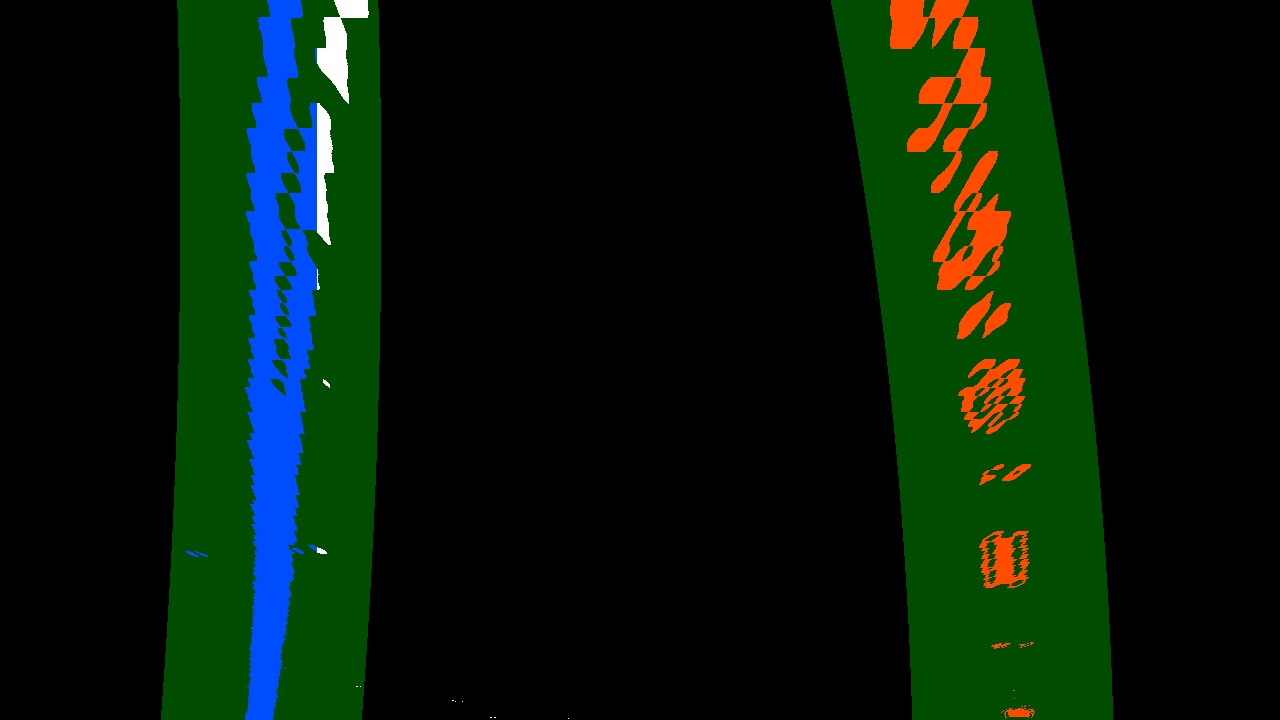
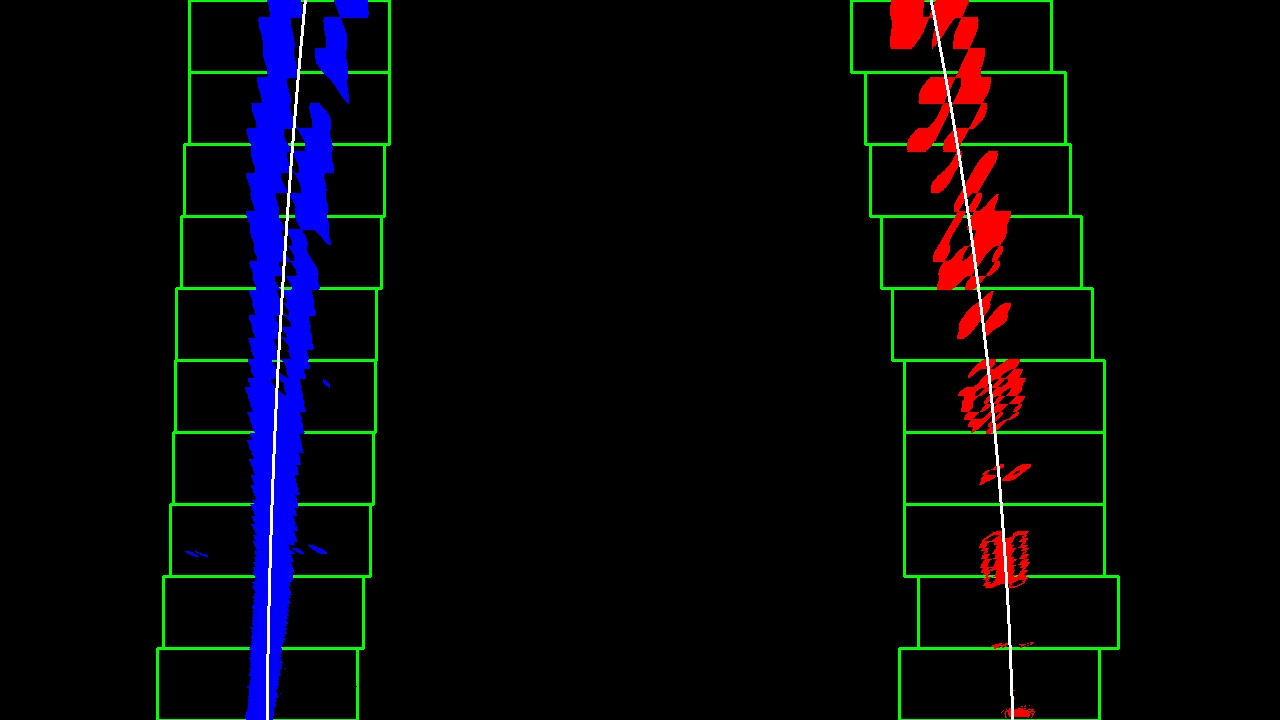
Fix bugs and implement lane center offset calculations. PW

diff --git a/Project 2 - Lane Detection/pipeline.py b/Project 2 - Lane Detection/pipeline.py
@@ -10,6 +10,23 @@ from search_prior import search_around_poly
 from curvature import measure_curvature_real
 from draw_image import draw_image
 from numpy.linalg import inv
+from curvature import lane_center_offset
+import copy
+
+LANE_PIXEL_WIDTH = 1105-217
+LANE_PIXEL_LENGTH = 705 - 440
+YM_PER_PIX = 30/LANE_PIXEL_LENGTH
+XM_PER_PIX = 3.7/LANE_PIXEL_WIDTH
+
+def poly_result(fit, y):
+    """
+    This function evaluates a polynomial of 2nd order
+    :param fit: polyomial coefficients
+    :param y: independent variable
+    :return: dependent variable
+    """
+    x = fit[0] * y ** 2 + fit[1] * y + fit[2]
+    return x
 
 def compare_images(image_1, image_2, gray_1=False, gray_2=False, title_1='Original Image',
                    title_2='Modified Image'):
@@ -65,7 +82,7 @@ def pipeline(write_images, show_images, show_images2, write_images2, show_images
     test_images = "test_images/"
     all_files = os.listdir(test_images)
     image_names = [file for file in all_files if file[-4:] == '.jpg']
-    init = False # init flag decides if box algorithm or search near polynomial is used to find lane lines
+    init = True # init flag decides if box algorithm or search near polynomial is used to find lane lines
     for image in image_names:
         print(test_images + image)
         img = cv2.imread(test_images + image)
@@ -81,9 +98,9 @@ def pipeline(write_images, show_images, show_images2, write_images2, show_images
         if write_images2:
             cv2.imwrite(test_images + "warped/" + image, warped * 255);
         if init:
-            out_img, left_fit, right_fit, ploty, left_fitx, right_fitx = fit_polynomial(warped)
+            out_img, left_fit, right_fit, ploty, left_fitx, right_fitx, lefty, leftx, righty, rightx = fit_polynomial(warped)
             if show_images3:
-                print(out_img)
+                #print(out_img)
                 compare_images(undistorted, out_img, True, True, 'Undistorted Image', 'Annotated Image')
             if write_images3:
                 cv2.imwrite(test_images + "fitted/" + image, out_img);
@@ -95,9 +112,18 @@ def pipeline(write_images, show_images, show_images2, write_images2, show_images
                 compare_images(undistorted, out_img, True, True, 'Undistorted Image', 'Annotated Image')
             if write_images3:
                 cv2.imwrite(test_images + "fitted/" + image, out_img);
-        left_curv, right_curv, left_fit_cr, right_fit_cr = measure_curvature_real(warped, left_fit, right_fit)
+        left_curv, right_curv, left_fit_cr, right_fit_cr = measure_curvature_real(warped, copy.copy(left_fit), copy.copy(right_fit))
+        #print("Left Fit: {}".format(left_fit))
+        #print("Right Fit: {}".format(right_fit))
+
         print("Left curvature: {}".format(left_curv))
         print("Right curvature: {}".format(right_curv))
+        right_base = poly_result(right_fit, 720) * XM_PER_PIX
+        left_base = poly_result(left_fit, 720) * XM_PER_PIX
+        print("Left Base: {}".format(left_base))
+        print("Right Base: {}".format(right_base))
+        offset = lane_center_offset(left_base, right_base)
+        print("Lane Center Offset: {}".format(offset))
         # Checking that they have similar curvature
         # Checking that they are separated by approximately the right distance horizontally
         # Checking that they are roughly parallel ???????
@@ -113,4 +139,4 @@ def pipeline(write_images, show_images, show_images2, write_images2, show_images
 
 if __name__ == '__main__':
     pipeline(write_images=False, write_images2=False, write_images3=False, show_images=False, show_images2=False,
-             show_images3=True, show_images4= False, write_images4= True)
+             show_images3=True, show_images4= True, write_images4= False)

diff --git a/Project 2 - Lane Detection/search_prior.py b/Project 2 - Lane Detection/search_prior.py
@@ -28,6 +28,7 @@ def poly_result(fit, y):
 
 def search_around_poly(binary_warped, left_fit, right_fit):
     margin = 100
+    #print("Enter search around poly")
 
     # Find non-zero items in binary warped image
     nonzero = binary_warped.nonzero()
@@ -81,10 +82,10 @@ def search_around_poly(binary_warped, left_fit, right_fit):
     # Use found points to calculate new polynomials
     left_fit = np.polyfit(x=lefty, y=leftx, deg=2)
     right_fit = np.polyfit(x=righty, y=rightx, deg=2)
-    print(left_fit)
-    print(right_fit)
+    #print(left_fit)
+    #print(right_fit)
     try:
-        left_fitx, right_fitx, ploty, new_left_fit, new_right_fit = fit_poly(binary_warped.shape, leftx, lefty, rightx, righty, left_fit, right_fit)
+        left_fitx, right_fitx, ploty, new_left_fit, new_right_fit = fit_poly(binary_warped.shape, left_fit, right_fit)
     except TypeError:
         return None, None, None, None, None, None, None, None, None, None
     return out_img, left_fit, right_fit, ploty, left_fitx, right_fitx, lefty, leftx, righty, rightx

diff --git a/Project 2 - Lane Detection/main.py b/Project 2 - Lane Detection/main.py
@@ -6,6 +6,7 @@ from perspective_transform import perspective_transform
 from locate_lines import fit_polynomial
 from search_prior import search_around_poly
 from curvature import measure_curvature_real
+from curvature import lane_center_offset
 from draw_image import draw_image
 from numpy.linalg import inv
 from moviepy.editor import VideoFileClip
@@ -102,6 +103,10 @@ def process_image(img):
                          ally = None, current_fit = left_fit, fitx = left_fitx)
         right_line.update(detected=True, radius_of_curvature=right_curv, allx=None,
                          ally=None, current_fit=right_fit, fitx = right_fitx)
+        print("Curvature of left lane line: {}".format(left_curv))
+        print("Curvature of right lane line: {}".format(right_curv))
+        offset = lane_center_offset(left_line.line_base_pos, right_line.line_base_pos)
+        print("Lane Center Offset: {}".format(offset))
     else:
         print("Warning: Lines were not detected!")
         left_line.detected = False

diff --git a/Project 2 - Lane Detection/locate_lines.py b/Project 2 - Lane Detection/locate_lines.py
@@ -134,6 +134,25 @@ def fit_polynomial(binary_warped):
     # Colors in the left and right lane regions
     out_img[lefty, leftx] = [255, 0, 0]
     out_img[righty, rightx] = [0, 0, 255]
+    show_polynomial = False
+    if show_polynomial:
+        y_left = []
+        x_left = []
+        y_right = []
+        x_right = []
+        for i in range(len(left_fitx)):
+            if int(left_fitx[i]) < 1279 and int(left_fitx[i]) > 1:
+                for j in range(3):
+                    y_left.append(int(ploty[i]))
+                    x_left.append(int(left_fitx[i])+j -1)
+            if int(right_fitx[i]) < 1279 and int(right_fitx[i]) > 1:
+                for j in range(3):
+                    y_right.append(int(ploty[i]))
+                    x_right.append(int(right_fitx[i])+j -1)
+
+        out_img[y_left, x_left] = [255, 255, 255]
+        out_img[y_right, x_right] = [255, 255, 255]
+
 
     # Plots the left and right polynomials on the lane lines
     #plt.plot(left_fitx, ploty, color='yellow')

diff --git a/Project 2 - Lane Detection/Lines_new.py b/Project 2 - Lane Detection/Lines_new.py
@@ -44,7 +44,7 @@ class Line():
         This function updates the Lane line class
         :return: NOne
         """
-        print("Current_fit received: {}".format(current_fit))
+        #print("Current_fit received: {}".format(current_fit))
         self.cnt = 0
         self.detected = detected
         self.recent_xfitted_list.append(fitx)
@@ -59,7 +59,7 @@ class Line():
             self.all_fit = self.all_fit[1:]
         self.best_fit = np.array([np.mean([fit[0] for fit in self.all_fit]),np.mean([fit[1] for fit in self.all_fit]), np.mean([fit[2] for fit in self.all_fit])])
         self.radius_of_curvature = radius_of_curvature
-        self.line_base_pos = self.best_fit[2] * XM_PER_PIX
+        self.line_base_pos = (self.best_fit[0] * 720 ** 2 + self.best_fit[1] * 720 + self.best_fit[2]) * XM_PER_PIX
         self.diffs = self.current_fit - self.all_fit[-2]
         self.allx = allx
         self.ally = ally

diff --git a/Project 2 - Lane Detection/curvature.py b/Project 2 - Lane Detection/curvature.py
@@ -5,6 +5,16 @@ LANE_PIXEL_LENGTH = 705 - 440
 YM_PER_PIX = 30/LANE_PIXEL_LENGTH
 XM_PER_PIX = 3.7/LANE_PIXEL_WIDTH
 
+def lane_center_offset(left_base_m, right_base_m):
+    """
+    Calculates the lane center offset using the base positions of the lane lines.
+    :param left_base_m:
+    :param right_base_m:
+    :return:
+    """
+    return (1280/2*XM_PER_PIX) - (left_base_m + right_base_m) / 2
+
+
 def pixel_to_meters(left_fit, right_fit, YM_PER_PIX, XM_PER_PIX):
     """
     This function turns a second order polynomial from pixel units to meters
